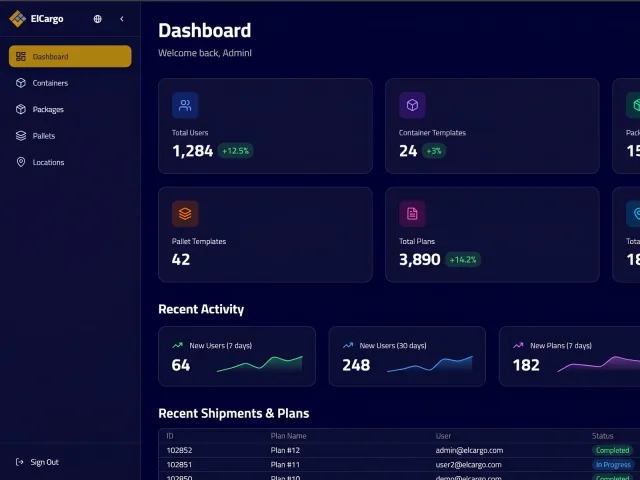
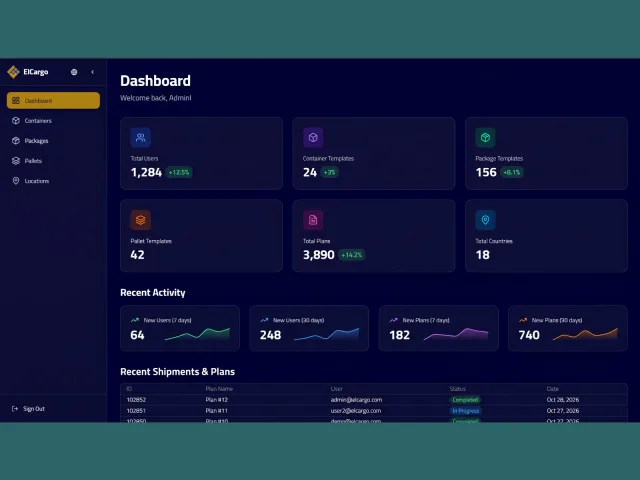
Frame the ElCargo screenshot instead of cropping it

diff --git a/index.html b/index.html
@@ -604,11 +604,11 @@
               and PostgreSQL.</p>
           </div>
 
-          <div class="proj" data-case="elcargo" data-href="work/elcargo.html?v=20261104b" tabindex="0" role="link"
+          <div class="proj" data-case="elcargo" data-href="work/elcargo.html?v=20261104c" tabindex="0" role="link"
             aria-label="Open the ElCargo case study">
             <div class="label"><span>ElCargo</span><span class="right"><em>Logistics &amp; 3D Planning</em></span></div>
             <div class="cover"><img
-                src="work/elcargo-cover-960.webp?v=20261104" srcset="work/elcargo-cover-640.webp?v=20261104 640w, work/elcargo-cover-960.webp?v=20261104 960w, work/elcargo-cover-1280.webp?v=20261104 1280w, work/elcargo-cover.webp?v=20261104 1600w"
+                src="work/elcargo-cover-960.webp?v=20261104c" srcset="work/elcargo-cover-640.webp?v=20261104c 640w, work/elcargo-cover-960.webp?v=20261104c 960w, work/elcargo-cover-1280.webp?v=20261104c 1280w, work/elcargo-cover.webp?v=20261104c 1600w"
                 sizes="(max-width: 760px) 88vw, 40vw" width="1600" height="1200"
                 alt="ElCargo admin panel with the cargo and plan management dashboard" loading="lazy" decoding="async"></div>
             <h3>Planning shipments in three dimensions</h3>

diff --git a/work/elcargo.html b/work/elcargo.html
@@ -1,4 +1,4 @@
-<!doctype html>
+<!doctype html>
 <html lang="en">
 
 <head>
@@ -21,7 +21,7 @@
     </header>
 
     <figure class="cover">
-      <img src="elcargo-cover.webp?v=20261104" alt="ElCargo admin panel with the cargo and plan management dashboard">
+      <img src="elcargo-cover.webp?v=20261104c" alt="ElCargo admin panel with the cargo and plan management dashboard">
     </figure>
 
     <dl class="meta">
